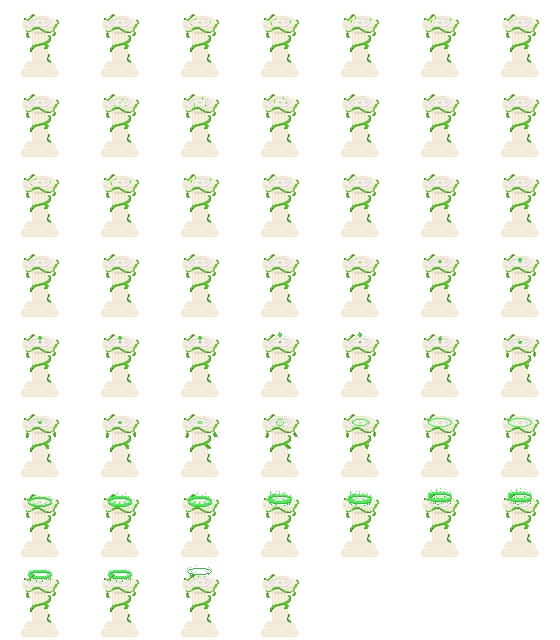
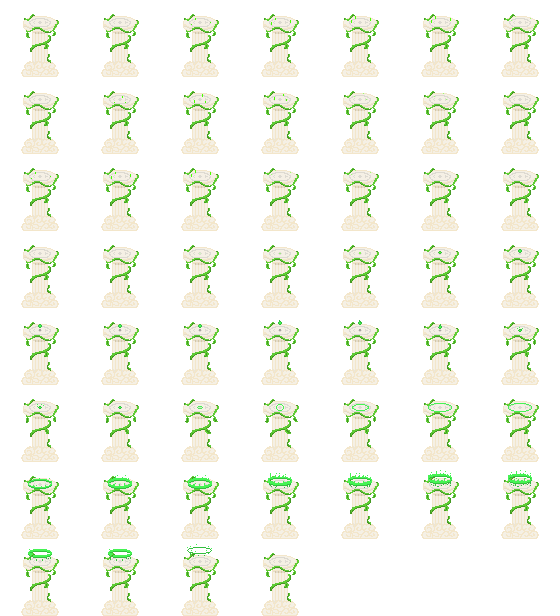
correction position des tours, attaque des tours et leur portée

diff --git a/src/main/java/universite_paris8/iut/nchaieb/sae_jeux/modele/Tours/Tour.java b/src/main/java/universite_paris8/iut/nchaieb/sae_jeux/modele/Tours/Tour.java
@@ -9,9 +9,10 @@ import universite_paris8.iut.nchaieb.sae_jeux.modele.monstres.Monstre;
 public class Tour extends Entite {
     protected int portee;
     protected double x, y;
+    private int atq;
     private final BooleanProperty modePlacementTour;
     public Tour(int portee, int atq, int x, int y) {
-
+        this.atq=atq;
         this.portee = portee;
         this.x = x;
         this.y = y;
@@ -40,12 +41,11 @@ public class Tour extends Entite {
 
 
 
-
     public void agir(ObservableList<Monstre> listeMonstre) {
         Monstre monstrePlusProche;
 
         if (!listeMonstre.isEmpty()) {
-
+            System.out.println("pas vide");
             monstrePlusProche = this.plusProche(listeMonstre);
             if (monstrePlusProche != null) {
                 this.setActionActuelle("fixe");
@@ -68,7 +68,6 @@ public class Tour extends Entite {
 
         //on va multiplier la distance de monstre*tour(x) et monstre*tour(y)
         int distance = distanceX+distanceY;
-
 
         //on compare la distance a la porte mais on doit les mettre à unité égale
         if (distance <= this.portee) {
@@ -95,6 +94,7 @@ public class Tour extends Entite {
                 }
             }
         }
+        System.out.println(monstrePlusProche);
         return monstrePlusProche;
 
     }
@@ -109,11 +109,11 @@ public class Tour extends Entite {
 
 
     public  void infligerDegat(Monstre monstre){
+        System.out.println("tour attaque");
+        if (monstre.getPV() != 0){
+            monstre.retirerPV(this.atq);
 
-//        if (monstre.nombreDePV != 0){
-////            monstre.retirerPV(this.atq);
-//
-//        }
+        }
     }
 }
 

diff --git a/src/main/java/universite_paris8/iut/nchaieb/sae_jeux/Controller.java b/src/main/java/universite_paris8/iut/nchaieb/sae_jeux/Controller.java
@@ -8,6 +8,7 @@ import javafx.scene.layout.Pane;
 import javafx.scene.layout.StackPane;
 import javafx.scene.layout.TilePane;
 import javafx.util.Duration;
+import universite_paris8.iut.nchaieb.sae_jeux.modele.Base;
 import universite_paris8.iut.nchaieb.sae_jeux.modele.Environnement;
 import universite_paris8.iut.nchaieb.sae_jeux.modele.Terrain;
 import universite_paris8.iut.nchaieb.sae_jeux.modele.CombinaisonValables;
@@ -43,6 +44,7 @@ public class Controller implements Initializable{
     InterfaceVue interfaceVue;
     private MonObservateurMonstre observateur;
 
+    private Base base;
 
 
 
@@ -72,8 +74,9 @@ public class Controller implements Initializable{
         //ajout du pane
         this.terrain = new Terrain();
         this.terrainVue = new TerrainVue(terrain, tilePane);
+        this.base= new Base();
 
-        System.out.println(stackPane);
+
 
         this.monstreVue= new MonstreVue(pane);
         this.interfaceVue = new InterfaceVue(stackPane);
@@ -83,7 +86,7 @@ public class Controller implements Initializable{
         MonObservateurMonstre observateurMonstres = new MonObservateurMonstre(pane);
         MonObservateurTour monObservateurTour = new MonObservateurTour(pane);
 
-        environnement= new Environnement(this.terrain);
+        environnement= new Environnement(this.terrain, this.base);
         environnement.getLesMonstres().addListener(observateurMonstres);
         environnement.getLesTours().addListener(monObservateurTour);
 

diff --git a/src/main/java/universite_paris8/iut/nchaieb/sae_jeux/modele/Environnement.java b/src/main/java/universite_paris8/iut/nchaieb/sae_jeux/modele/Environnement.java
@@ -22,15 +22,16 @@ public class Environnement {
 	public Tour tourAPlacer;
 	private Symboles symboles; //liste des symboles
 	 //pour savoir si on est entrain de placer une tour ou pas
+	private Base base;
 
-
-	public Environnement(Terrain terrain) {
+	public Environnement(Terrain terrain, Base base) {
 		this.terrain = terrain;
 		this.nbTours = new SimpleIntegerProperty();
 		this.lesTours =FXCollections.observableArrayList();
 		this.lesMonstres = FXCollections.observableArrayList();
 		this.symboles = new Symboles();
-		tourAPlacer=new Tour(1,1,1,1);
+		tourAPlacer=new Tour(1,1,3000,3000);//initialise une tour qui représente la tour a placer
+
 
 
 		Monstre.compteurID = 0;
@@ -83,13 +84,15 @@ public class Environnement {
 	public void unTour() {
 
 		//faut les supp quand ils sont morts / sinon ils continuent d'avancer
-		if (!(this.lesMonstres == null) && !this.lesMonstres.isEmpty()) {
-			for (int i =0; i< this.lesTours.size() ; i++) {
+		if (!(this.lesTours == null) && !this.lesTours.isEmpty()) {
+			for (int i = 0; i < this.lesTours.size(); i++) {
 				this.lesTours.get(i).agir(this.lesMonstres);
 
+
 			}
+		}
 
-
+		if (!(this.lesMonstres == null) && !this.lesMonstres.isEmpty()) {
 			for (int i = this.lesMonstres.size() - 1; i >= 0; i--) {
 				if (!this.lesMonstres.get(i).estVivant()) {
 					System.out.println("je suis remove");

diff --git a/src/main/java/universite_paris8/iut/nchaieb/sae_jeux/vue/TourVue.java b/src/main/java/universite_paris8/iut/nchaieb/sae_jeux/vue/TourVue.java
@@ -36,16 +36,21 @@ public class TourVue {
 
     public void ajouterSprite(Tour tour){
 
-        int decalageX=40;
-        int decalageY=80;
+        int decalageX=0;
+        int decalageY=0;
         ImageView  iv= new ImageView();
 
         if(tour instanceof TourOeil){
+             decalageX=33;
+             decalageY=67;
             iv=new ImageView(tourOeil);
             iv.setViewport(new Rectangle2D(0,0,80,80));
 
         }
         if(tour instanceof TourHeal){
+            decalageX=31;
+            decalageY=70;
+
             iv=new ImageView(tourHeal);
             iv.setViewport(new Rectangle2D(0,0,80,80));
         }
@@ -53,11 +58,11 @@ public class TourVue {
 //        iv.translateYProperty().bind(
 //                tour.posYProperty()
 //        );
-        iv.layoutXProperty().bind(
+        iv.translateXProperty().bind(
                 tour.posXProperty().subtract(decalageX)
         );
 
-        iv.layoutYProperty().bind(
+        iv.translateYProperty().bind(
                 tour.posYProperty().subtract(decalageY)
         );
         this.hashMap.put(tour, iv);

diff --git a/src/main/java/universite_paris8/iut/nchaieb/sae_jeux/MonObservateurTour.java b/src/main/java/universite_paris8/iut/nchaieb/sae_jeux/MonObservateurTour.java
@@ -51,19 +51,19 @@ public class MonObservateurTour implements ListChangeListener<Tour>{
                         }
                     });
 
-
-                    nouveau.getActionActuelle().addListener((observable, oldValue, newValue) -> {
-
-                        if (newValue.equals("fixe")) {
-
-                            this.tourVue.stopAnimation(nouveau);
-                        }
-                        if (newValue.equals("attaque")) {
-                            this.tourVue.animationAttaque(nouveau);
-                        }
-                    });
-
-
+//
+//                    nouveau.getActionActuelle().addListener((observable, oldValue, newValue) -> {
+//
+//                        if (newValue.equals("fixe")) {
+//
+//                            this.tourVue.stopAnimation(nouveau);
+//                        }
+//                        if (newValue.equals("attaque")) {
+//                            this.tourVue.animationAttaque(nouveau);
+//                        }
+//                    });
+//
+//
 
 
 

diff --git a/src/main/java/universite_paris8/iut/nchaieb/sae_jeux/modele/Tours/TourOeil.java b/src/main/java/universite_paris8/iut/nchaieb/sae_jeux/modele/Tours/TourOeil.java
@@ -1,8 +1,27 @@
 package universite_paris8.iut.nchaieb.sae_jeux.modele.Tours;
 
+import javafx.collections.ObservableList;
+import universite_paris8.iut.nchaieb.sae_jeux.modele.monstres.Monstre;
+
 public class TourOeil extends Tour {
 
     public TourOeil() {
-        super(5,6,3000,3000);
+        super(100,6,3000,3000);
     }
+
+//    public void agir(ObservableList<Monstre> listeMonstre) {
+//        Monstre monstrePlusProche;
+//
+//        if (!listeMonstre.isEmpty()) {
+//
+//            monstrePlusProche = this.plusProche(listeMonstre);
+//            if (monstrePlusProche != null) {
+//                this.setActionActuelle("fixe");
+//                System.out.println("pas nul");
+//                this.infligerDegat(monstrePlusProche);
+//                this.setActionActuelle("attaque");
+//            }
+//
+//        }
+//    }
 }

diff --git a/src/main/java/universite_paris8/iut/nchaieb/sae_jeux/modele/Base.java b/src/main/java/universite_paris8/iut/nchaieb/sae_jeux/modele/Base.java
@@ -5,4 +5,45 @@ public class Base {
     private int pv;
     private int posX;
     private int posY;
+
+    public Base() {
+        this.posY = 26;
+        this.posX = 105;
+        this.pvMax = 100;
+        this.pv = this.pvMax;
+
+    }
+
+    public int getPv() {
+        return pv;
+    }
+
+    public int getPosX() {
+        return posX;
+    }
+
+    public int getPosY() {
+        return posY;
+    }
+
+    public void ajouterPv(int pvAjoutes){
+        if(this.pv+pvAjoutes >this.pvMax){
+            this.pv= this.pvMax;
+        }
+        else {
+            this.pv= this.pv+pvAjoutes;
+        }
+    }
+    public void retirerPv(int pvRetires){
+        if (this.pv-pvRetires<0){
+            this.pv=0;
+        }
+        else{
+            this.pv=this.pv-pvRetires;
+        }
+    }
+
+
+
+
 }

diff --git a/src/main/java/universite_paris8/iut/nchaieb/sae_jeux/modele/Tours/TourHeal.java b/src/main/java/universite_paris8/iut/nchaieb/sae_jeux/modele/Tours/TourHeal.java
@@ -1,7 +1,18 @@
 package universite_paris8.iut.nchaieb.sae_jeux.modele.Tours;
 
+import javafx.collections.ObservableList;
+import universite_paris8.iut.nchaieb.sae_jeux.modele.Base;
+import universite_paris8.iut.nchaieb.sae_jeux.modele.monstres.Monstre;
+
 public class TourHeal extends Tour {
+    private int heal;
     public TourHeal() {
         super(0,0,3000,3000);
+        this.heal=10;
+    }
+
+
+    public void competence(Base base) {
+       base.ajouterPv(this.heal);
     }
 }

diff --git a/src/main/java/universite_paris8/iut/nchaieb/sae_jeux/modele/Symboles.java b/src/main/java/universite_paris8/iut/nchaieb/sae_jeux/modele/Symboles.java
@@ -20,7 +20,7 @@ public class Symboles {
     }
 
     public void ajouterSymbole(String symbole){
-        if (this.combinaison.size() != 3){
+        if (this.combinaison.size() <6 ){
             this.combinaison.add(symbole);
         } else {
             System.out.println("ce symbole ne sera pas comptabilisé");
